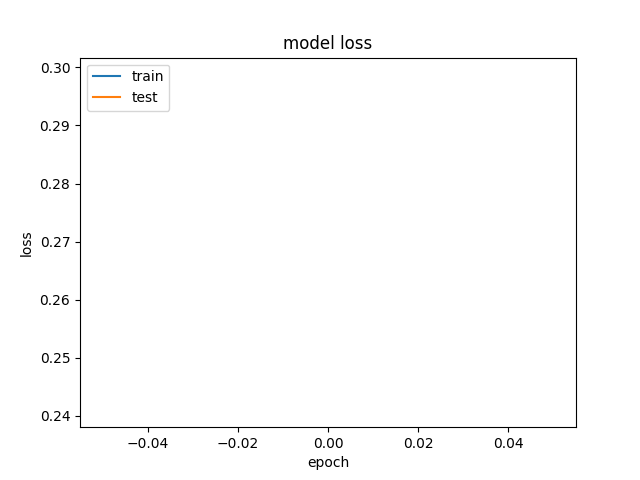
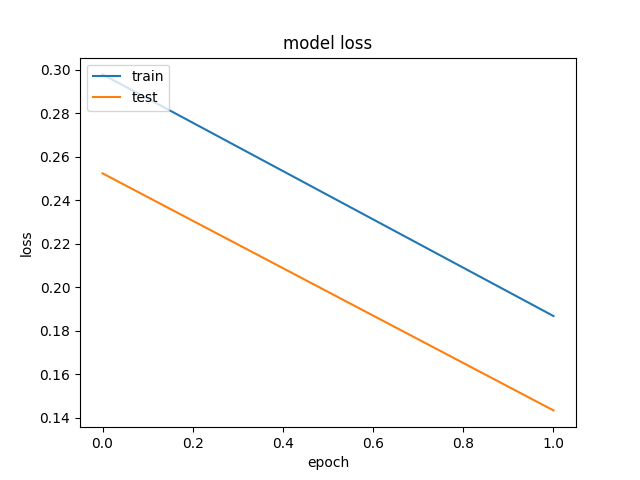
finalize model code

diff --git a/tbinet_stuff/train.py b/tbinet_stuff/train.py
@@ -82,12 +82,14 @@ model.summary()
 checkpointer = ModelCheckpoint(filepath="./model/tbinet.{epoch:02d}-{val_loss:.2f}.hdf5", verbose=1, save_best_only=False)
 earlystopper = EarlyStopping(monitor='val_loss', patience=10, verbose=1)
 
-history = model.fit(X_train, y_train, batch_size=100, epochs=60, shuffle=True, verbose=1, validation_data=(validmat['Test_data'],validmat['Test_labels'].T), callbacks=[checkpointer,earlystopper])
+history = model.fit(X_train, y_train, batch_size=100, epochs=2, shuffle=True, verbose=1, validation_data=(validmat['Test_data'],validmat['Test_labels'].T), callbacks=[checkpointer,earlystopper])
 
 # model.save('./model/tbinet_tmp.h5')
 model.save('./model/tbinet.h5')
 
 ####### Learning curve
+print(history.history['loss'])
+print(history.history['val_loss'])
 print(history.history.keys())
 # summarize history for accuracy
 # plt.plot(history.history['accuracy'])
@@ -98,8 +100,8 @@ print(history.history.keys())
 # plt.legend(['train', 'test'], loc='upper left')
 # plt.savefig("model_accuracy.png")
 # summarize history for loss
-plt.plot(history.history['loss'])
-plt.plot(history.history['val_loss'])
+plt.plot(history.history['loss'], label='train')
+plt.plot(history.history['val_loss'], label='test')
 plt.title('model loss')
 plt.ylabel('loss')
 plt.xlabel('epoch')
